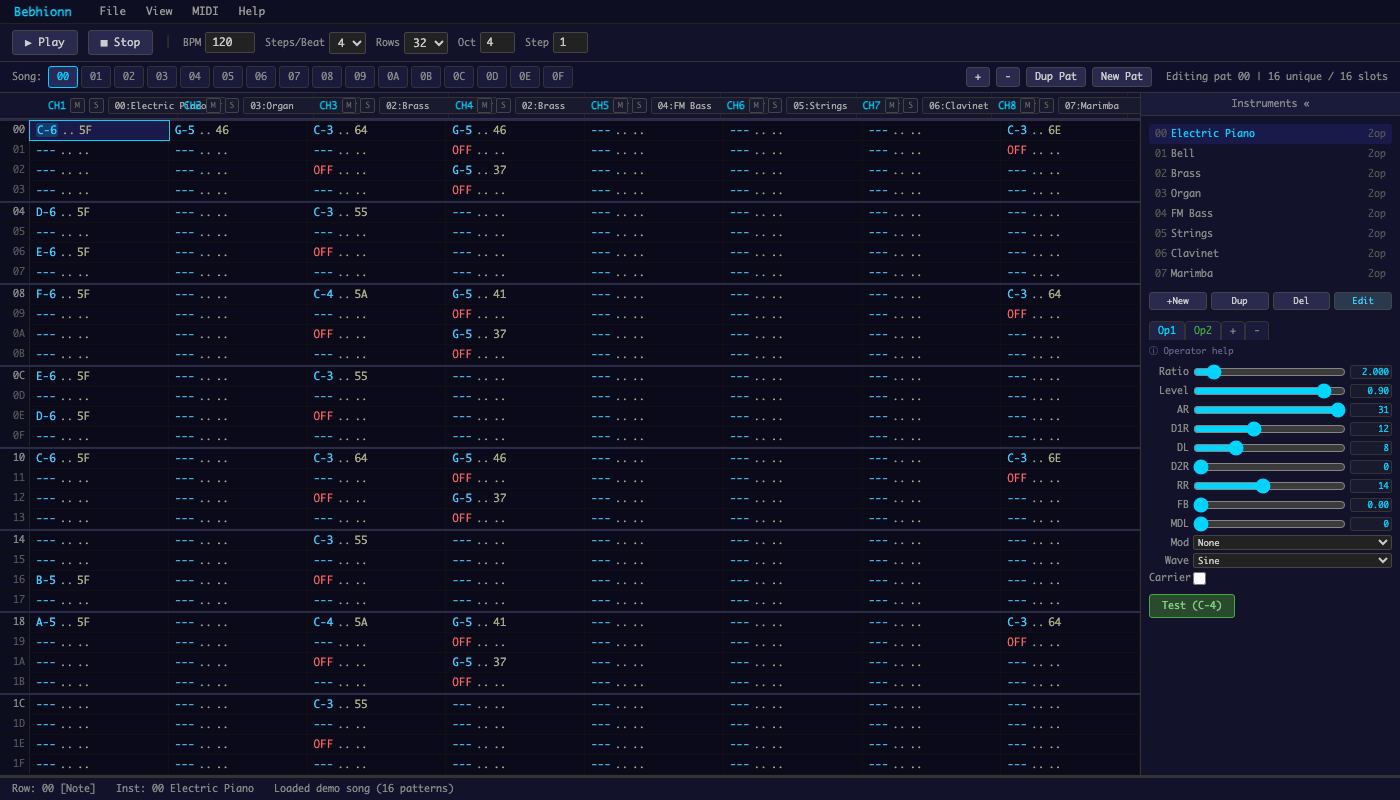
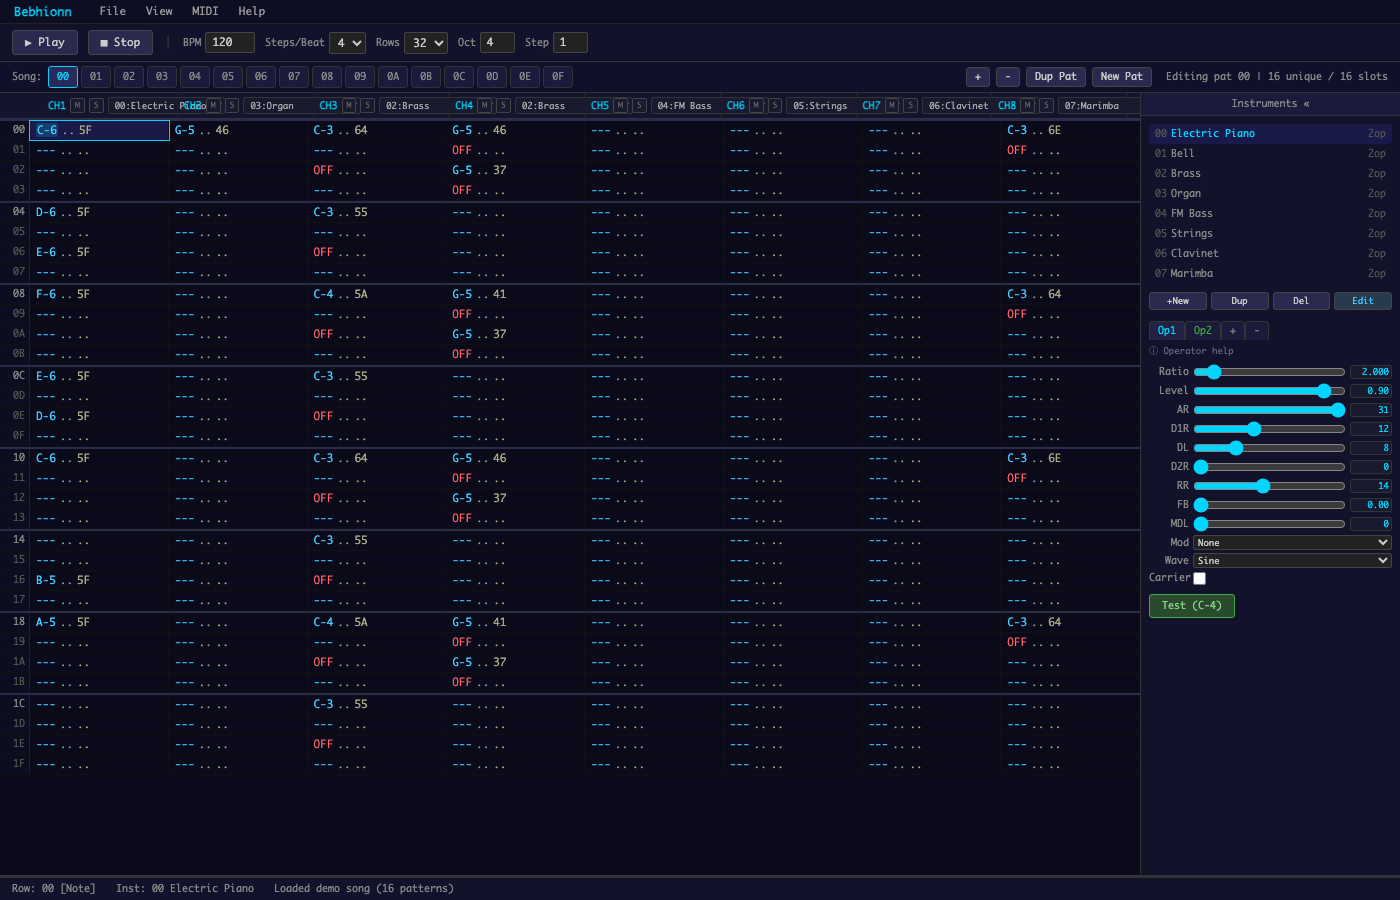
Updated screenshots

diff --git a/tests/e2e/screenshot.py b/tests/e2e/screenshot.py
@@ -1,5 +1,15 @@
 #!/usr/bin/env python3
-"""Generate a screenshot of the tracker for the README."""
+"""Generate screenshots of the tracker for the README.
+
+Usage:
+    python3 tests/e2e/screenshot.py [output_dir]
+
+Produces:
+    screenshot.png          Full tracker interface
+    screenshot_inst.png     Instrument editor panel (sidebar)
+    screenshot_detail.png   Instrument detail panel (envelope, waveform, routing)
+    screenshot_dsp.png      DSP effect editor
+"""
 
 import os
 import subprocess
@@ -11,8 +21,38 @@ from playwright.sync_api import sync_playwright
 REPO_ROOT = os.path.dirname(os.path.dirname(os.path.dirname(os.path.abspath(__file__))))
 
 
+def screenshot_element(page, selector, path, crop_to=None):
+    """Screenshot a single element by selector.
+
+    If crop_to is a CSS selector, clips the screenshot from the element's
+    top-left to the bottom of the crop_to element (plus padding).
+    """
+    el = page.query_selector(selector)
+    if not el:
+        print(f'  WARNING: {selector} not found, skipping {os.path.basename(path)}')
+        return
+
+    if crop_to:
+        clip = page.evaluate('''([sel, cropSel]) => {
+            var el = document.querySelector(sel);
+            var cropEl = document.querySelector(cropSel);
+            var rect = el.getBoundingClientRect();
+            var cropRect = cropEl ? cropEl.getBoundingClientRect() : rect;
+            return {
+                x: rect.x, y: rect.y,
+                width: rect.width,
+                height: cropRect.bottom - rect.y + 10
+            };
+        }''', [selector, crop_to])
+        page.screenshot(path=path, clip=clip)
+    else:
+        el.screenshot(path=path)
+
+    print(f'  {os.path.basename(path)}')
+
+
 def main():
-    output = sys.argv[1] if len(sys.argv) > 1 else os.path.join(REPO_ROOT, 'screenshot.png')
+    out_dir = sys.argv[1] if len(sys.argv) > 1 else REPO_ROOT
 
     # Generate bundled HTML
     fd, html_path = tempfile.mkstemp(suffix='.html', prefix='bebhionn_')
@@ -24,14 +64,53 @@ def main():
 
     with sync_playwright() as p:
         browser = p.chromium.launch()
-        page = browser.new_page(viewport={'width': 1400, 'height': 800})
+        page = browser.new_page(viewport={'width': 1400, 'height': 900})
         page.goto(f'file://{html_path}')
         page.wait_for_timeout(1500)
-        page.screenshot(path=output)
+
+        print('Screenshots:')
+
+        # Full interface
+        full_path = os.path.join(out_dir, 'screenshot.png')
+        page.screenshot(path=full_path)
+        print(f'  screenshot.png')
+
+        # Select a multi-operator instrument for a more interesting sidebar
+        # Click on "Brass" (index 2) which has 2 ops with modulation
+        page.evaluate('''() => {
+            var items = document.querySelectorAll(".inst-item");
+            if (items[2]) items[2].click();
+        }''')
+        page.wait_for_timeout(300)
+        # Switch to Op2 to show modulation routing
+        page.evaluate('''() => {
+            var tabs = document.querySelectorAll("#inst-editor .op-tab");
+            if (tabs[1]) tabs[1].click();
+        }''')
+        page.wait_for_timeout(200)
+
+        # Instrument editor (sidebar panel, cropped to visible content)
+        screenshot_element(page, '#inst-panel', os.path.join(out_dir, 'screenshot_inst.png'), crop_to='#inst-editor button:last-child')
+
+        # Open instrument detail panel (envelope, waveform, routing)
+        page.evaluate('toggleInstDetail()')
+        page.wait_for_timeout(500)
+        screenshot_element(page, '#inst-detail', os.path.join(out_dir, 'screenshot_detail.png'))
+        # Close it before opening DSP
+        page.evaluate('toggleInstDetail()')
+        page.wait_for_timeout(300)
+
+        # Open DSP panel, init the SCSP engine, then compile the default delay program
+        page.evaluate('toggleDspPanel()')
+        page.wait_for_timeout(500)
+        page.evaluate('SCSPEngine.init().then(function() { dspCompile(); })')
+        page.wait_for_timeout(1000)
+        screenshot_element(page, '#dsp-panel', os.path.join(out_dir, 'screenshot_dsp.png'))
+
         browser.close()
 
     os.unlink(html_path)
-    print(f'Screenshot saved to {output}')
+    print(f'Done — saved to {out_dir}/')
 
 
 if __name__ == '__main__':

diff --git a/README.md b/README.md
@@ -1,6 +1,10 @@
 # Bebhionn
 
-![Screenshot of the Bebhionn tracker interface](screenshot.png)
+![Bebhionn Tracker](screenshot.png)
+
+| Instrument Editor | Instrument Detail | DSP Effect Editor |
+|:-:|:-:|:-:|
+| ![Instrument Editor](screenshot_inst.png) | ![Instrument Detail](screenshot_detail.png) | ![DSP Effect Editor](screenshot_dsp.png) |
 
 Browser-based vertical tracker for composing music with the Sega Saturn's
 SCSP (YMF292-F) sound chip. Uses a hardware-accurate WASM emulator — what
